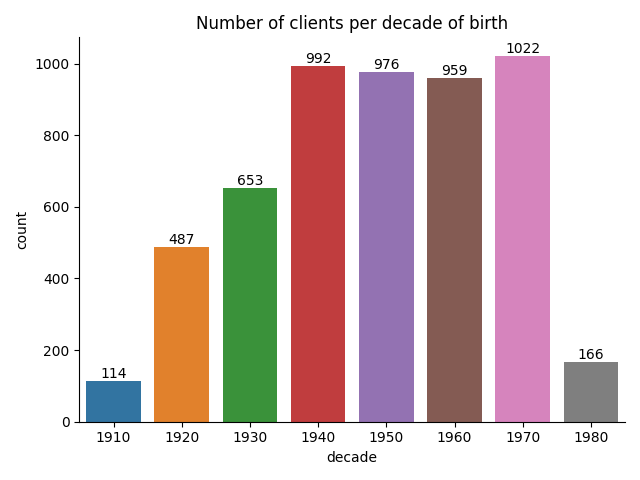
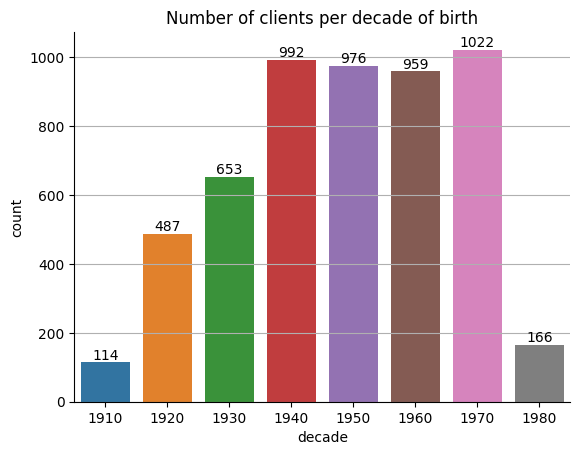
Added 'clients_sex_distribution' plot

Changed region(s): [[0.0, 0.0308, 0.9931, 0.9846], [0.2483, 0.4615, 0.3103, 0.5231]]

diff --git a/src/data-analysis/client.py b/src/data-analysis/client.py
@@ -8,9 +8,17 @@ def plot_number_clients_per_decade_birth(df):
     ax.bar_label(ax.containers[0])
     plt.xlabel('decade')
     plt.title('Number of clients per decade of birth')
+    plt.grid(axis='y')
     sns.despine(ax=ax)
-    plt.tight_layout()
-    plt.savefig('../../analysis_plots/number_clients_per_decade_birth.png')
+    plt.savefig('../../analysis_plots/number_clients_per_decade_birth.png', bbox_inches='tight')
+    plt.clf()
+
+def plot_clients_sex_distribution(df):
+    ax = sns.countplot(df, x='sex')
+    ax.bar_label(ax.containers[0])
+    plt.title('Clients sex distribution')
+    sns.despine(ax=ax)
+    plt.savefig('../../analysis_plots/clients_sex_distribution.png', bbox_inches='tight')
     plt.clf()
 
 def main():
@@ -23,6 +31,7 @@ def main():
     df['birthNumber'] = pd.to_datetime(df['birthNumber'], format='%Y%m%d')
 
     plot_number_clients_per_decade_birth(df)
+    plot_clients_sex_distribution(df)
 
 if __name__ == "__main__":
     main()
